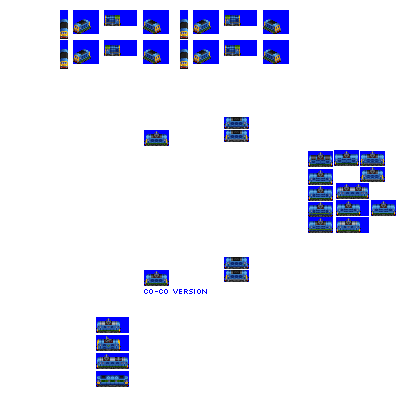
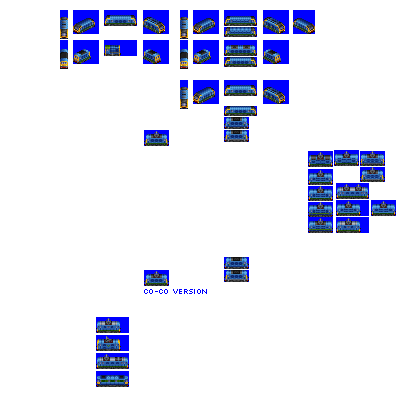
Change: WIP on larger metro locomotives

Changed region(s): [[0.45, 0.0, 0.81, 0.3], [0.15, 0.03, 0.42, 0.12]]

diff --git a/src/vehicles/pony/angerstein.py b/src/vehicles/pony/angerstein.py
@@ -5,16 +5,16 @@ def main(roster_id, **kwargs):
     consist = EngineConsist(
         roster_id=roster_id,
         id="angerstein",
-        base_numeric_id=400,
+        base_numeric_id=24790,
         name="Angerstein",
         role="metro",
         role_child_branch_num=-2,
         power_by_power_source={
-            "METRO": 1050,
+            "METRO": 1250,
         },
         random_reverse=True,
         gen=3,
-        intro_year_offset=3,  # introduce later than gen epoch by design
+        intro_year_offset=1,  # introduce later than gen epoch by design
         fixed_run_cost_points=120,  # substantial cost bonus for balance against same-era steam engines
         extended_vehicle_life=True,
         # note that livery names are metadata only and can repeat for different spriterows
@@ -23,15 +23,13 @@ def main(roster_id, **kwargs):
     )
 
     consist.add_unit(
-        type=MetroUnit, weight=30, vehicle_length=4, spriterow_num=0,
-    )
-    consist.add_unit(
-        type=MetroUnit, weight=30, vehicle_length=4, spriterow_num=1,
+        type=MetroUnit, weight=60, vehicle_length=8, spriterow_num=0,
     )
 
     consist.description = (
-        """."""
+        """Are we going back to Romford?"""
     )
-    consist.foamer_facts = """Brush battery-electric locos for MTR (Hong Kong metro)"""
+    # https://www.checkerboardhill.com/2020/01/mtr-zer4-battery-electric-locomotives/
+    consist.foamer_facts = """CRRC ZER4 battery-electric locos for MTR (Hong Kong metro)"""
 
     return consist

diff --git a/src/vehicles/pony/walbrook.py b/src/vehicles/pony/walbrook.py
@@ -5,16 +5,15 @@ def main(roster_id, **kwargs):
     consist = EngineConsist(
         roster_id=roster_id,
         id="walbrook",
-        base_numeric_id=23990,
+        base_numeric_id=400,
         name="Walbrook",
         role="metro",
         role_child_branch_num=-2,
         power_by_power_source={
-            "METRO": 1050,
+            "METRO": 650,
         },
-        random_reverse=True,
         gen=1,
-        intro_year_offset=3,  # introduce later than gen epoch by design
+        intro_year_offset=1,  # introduce later than gen epoch by design
         fixed_run_cost_points=120,  # substantial cost bonus for balance against same-era steam engines
         extended_vehicle_life=True,
         # note that livery names are metadata only and can repeat for different spriterows
@@ -23,12 +22,12 @@ def main(roster_id, **kwargs):
     )
 
     consist.add_unit(
-        type=MetroUnit, weight=60, vehicle_length=8, spriterow_num=0
+        type=MetroUnit, weight=28, vehicle_length=4, spriterow_num=0, repeat=2,
     )
 
     consist.description = (
         """."""
     )
-    consist.foamer_facts = """Metropolitan Railway electric locos"""
+    consist.foamer_facts = """District Railway electric locos"""
 
     return consist

diff --git a/src/rosters/pony.py b/src/rosters/pony.py
@@ -173,23 +173,23 @@ engine_module_names = [
     "driving_cab_high_speed_mail_pony_gen_6",
     # metro
     "serpentine",
-    #"poplar", # unfinished, nerfed
+    "poplar", # unfinished, nerfed
     "westbourne",
-    #"hammersmith", # unfinished, nerfed
+    "hammersmith", # unfinished, nerfed
     "fleet",
-    #"canary", # unfinished, nerfed
+    "canary", # unfinished, nerfed
     "longwater",
-    #"ravensbourne", # unfinished, nerfed
+    "ravensbourne", # unfinished, nerfed
     "tyburn",
-    #"wandle", # unfinished, nerfed
+    "wandle", # unfinished, nerfed
     "tideway",
-    #"bankside", # unfinished, nerfed
+    "bankside", # unfinished, nerfed
     "debden", # unfinished, nerfed
     "cringle", # unfinished, nerfed
     "mulberry", # unfinished, nerfed
-    #"walbrook", # unfinished, nerfed
-    #"borax", # unfinished, nerfed
-    #"angerstein", # unfinished, nerfed
+    "walbrook", # unfinished, nerfed
+    "borax", # unfinished, nerfed
+    "angerstein", # unfinished, nerfed
     # ng engines
     "cheese_bug",
     "bean_feast",

diff --git a/src/vehicles/pony/borax.py b/src/vehicles/pony/borax.py
@@ -10,11 +10,11 @@ def main(roster_id, **kwargs):
         role="metro",
         role_child_branch_num=-2,
         power_by_power_source={
-            "METRO": 1050,
+            "METRO": 950,
         },
         random_reverse=True,
         gen=2,
-        intro_year_offset=3,  # introduce later than gen epoch by design
+        intro_year_offset=1,  # introduce later than gen epoch by design
         fixed_run_cost_points=120,  # substantial cost bonus for balance against same-era steam engines
         extended_vehicle_life=True,
         # note that livery names are metadata only and can repeat for different spriterows
